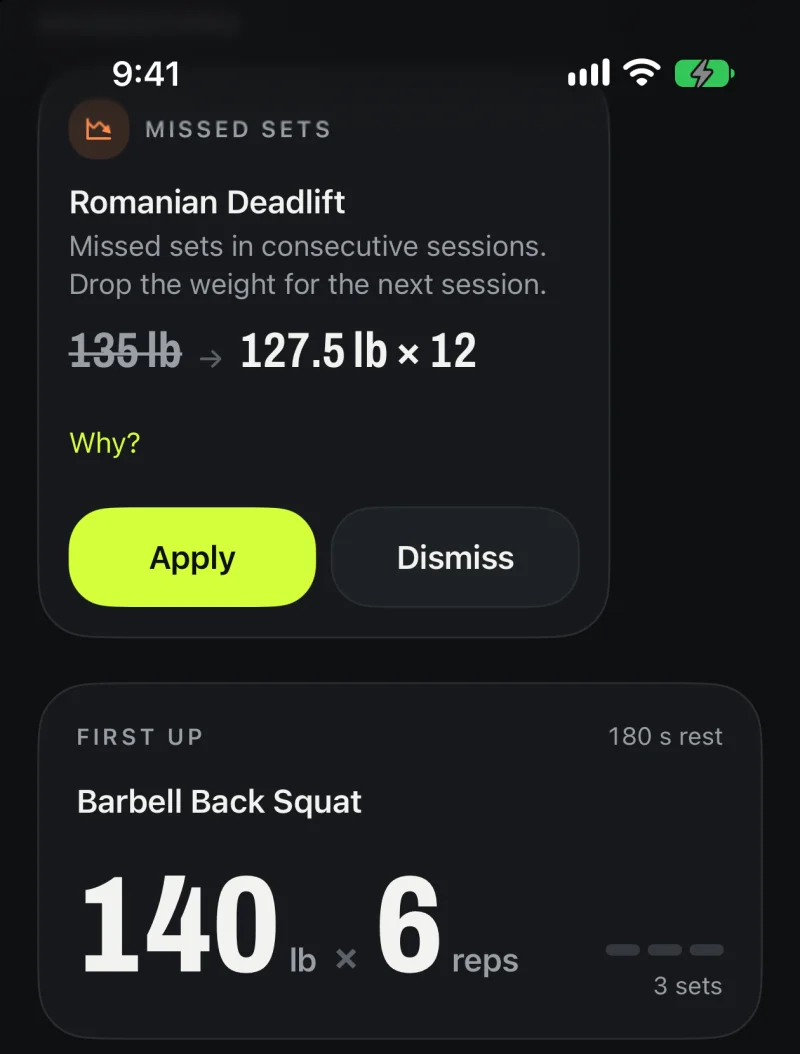
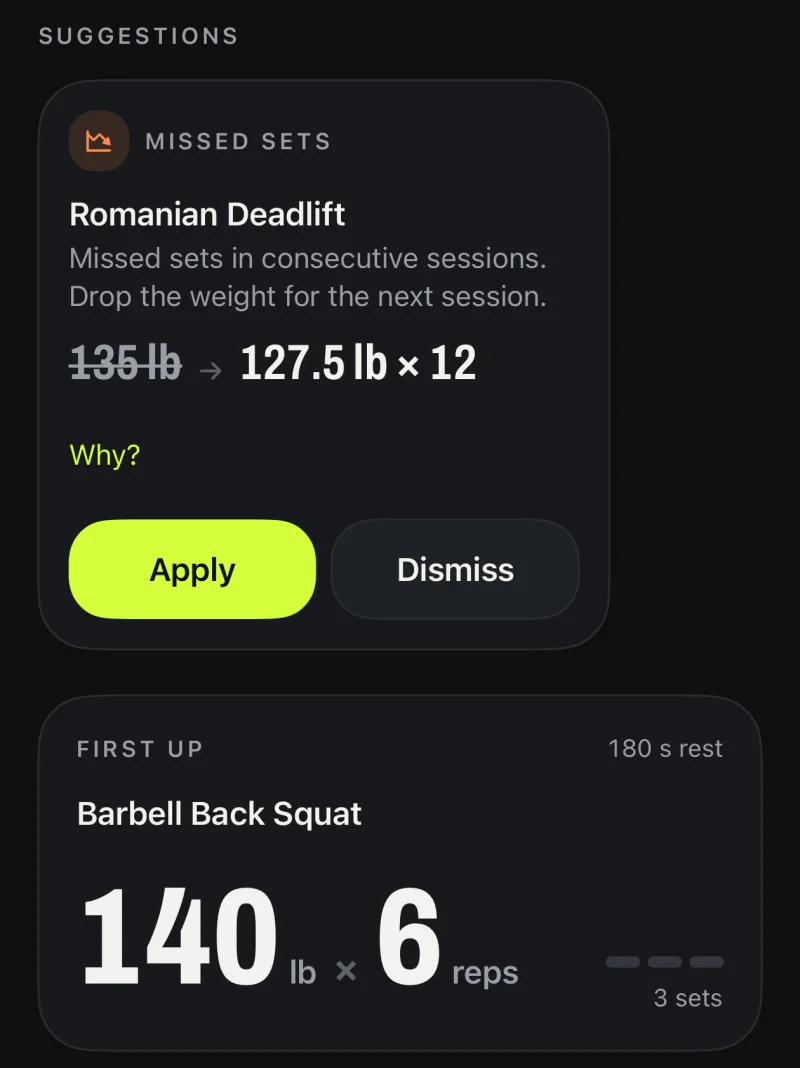
Add a link preview image and a cleaner app screenshot
Links to useliftday.com now carry Open Graph and Twitter card tags
with a 1200x630 preview image (headline plus the app's suggestion),
so shared links no longer fall back to the page's first image.
The hero screenshot is a fresh iPhone Air capture that starts at the
Suggestions heading, without the status bar over the card.

diff --git a/index.html b/index.html
@@ -3,9 +3,22 @@
 <head>
   <meta charset="utf-8">
   <meta name="viewport" content="width=device-width, initial-scale=1">
-  <title>LiftDay</title>
+  <title>LiftDay: Log your lifts. Know what to lift next.</title>
   <meta name="description" content="Log your lifts. Know what to lift next. LiftDay is a strength training log for iPhone that uses what you actually lifted to set your next weight and rep targets.">
   <meta name="theme-color" content="#0E0F11">
+  <link rel="canonical" href="https://useliftday.com/">
+
+  <!-- Link previews (iMessage, Slack, WhatsApp, X, LinkedIn…) -->
+  <meta property="og:type" content="website">
+  <meta property="og:site_name" content="LiftDay">
+  <meta property="og:url" content="https://useliftday.com/">
+  <meta property="og:title" content="LiftDay: Log your lifts. Know what to lift next.">
+  <meta property="og:description" content="A strength training log for iPhone that uses what you actually lifted to set your next weight and rep targets.">
+  <meta property="og:image" content="https://useliftday.com/images/social-preview.png">
+  <meta property="og:image:width" content="1200">
+  <meta property="og:image:height" content="630">
+  <meta property="og:image:alt" content="LiftDay: Log your lifts. Know what to lift next. Beside the headline, the app suggests 127.5 lb for 12 reps on Romanian deadlifts and a squat target of 140 lb for 6.">
+  <meta name="twitter:card" content="summary_large_image">
   <link rel="icon" href="/brand/liftmark-primary.svg" type="image/svg+xml">
   <link rel="icon" href="/brand/favicon-32.png" sizes="32x32" type="image/png">
   <link rel="apple-touch-icon" href="/brand/apple-touch-icon.png">
@@ -25,9 +38,9 @@
           <p class="status">Coming soon to the App Store</p>
         </div>
         <figure class="hero-shot">
-          <img src="/images/today-suggestion.webp" width="800" height="1054"
+          <img src="/images/today-suggestion.webp" width="800" height="1068"
                alt="LiftDay's Today screen. A Missed Sets card for Romanian Deadlift says sets were missed in consecutive sessions and suggests dropping from 135 lb to 127.5 lb for 12 reps, with Why?, Apply and Dismiss buttons. Below it, First Up shows Barbell Back Squat at 140 lb for 6 reps over 3 sets.">
-          <figcaption>After missed sets on Romanian deadlifts, LiftDay suggests a lighter 127.5&nbsp;lb for 12 reps. Next up, squat targets 140&nbsp;lb for 6. Real app screen, sample data.</figcaption>
+          <figcaption>Reps fell short on Romanian deadlifts two sessions running, so LiftDay suggests a lighter 127.5&nbsp;lb. Every squat set hit 8 reps at 135&nbsp;lb, so the next target moves up to 140&nbsp;lb. Real app screen, sample data.</figcaption>
         </figure>
       </section>
 
